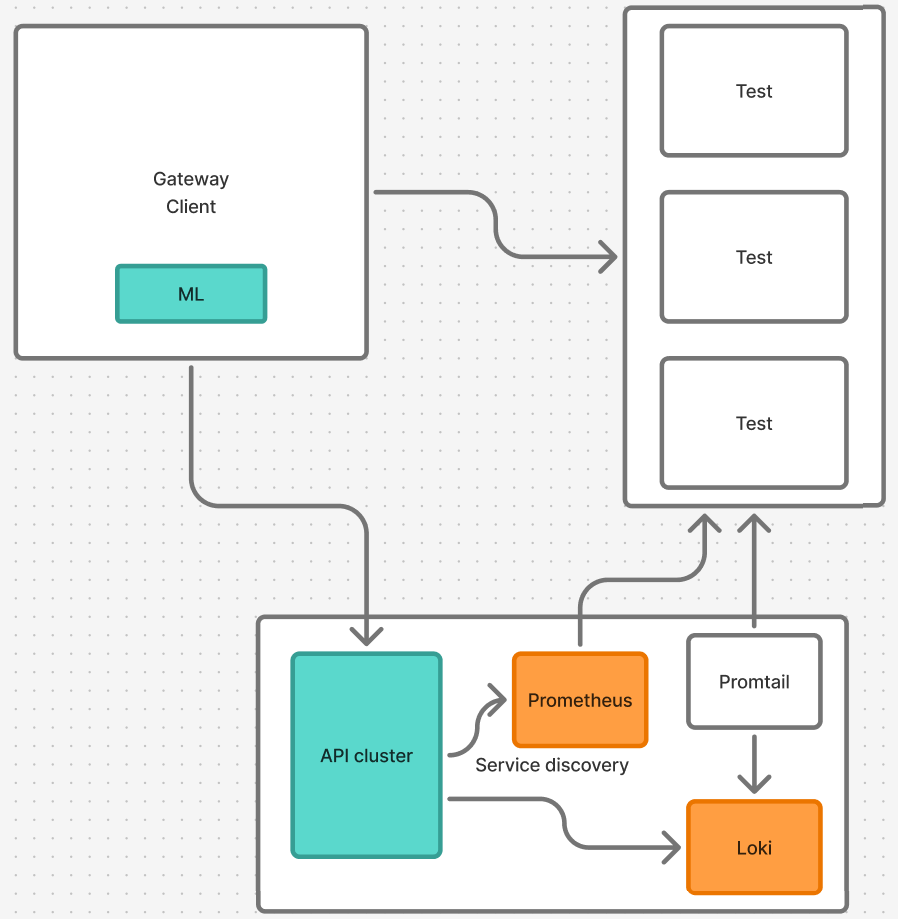
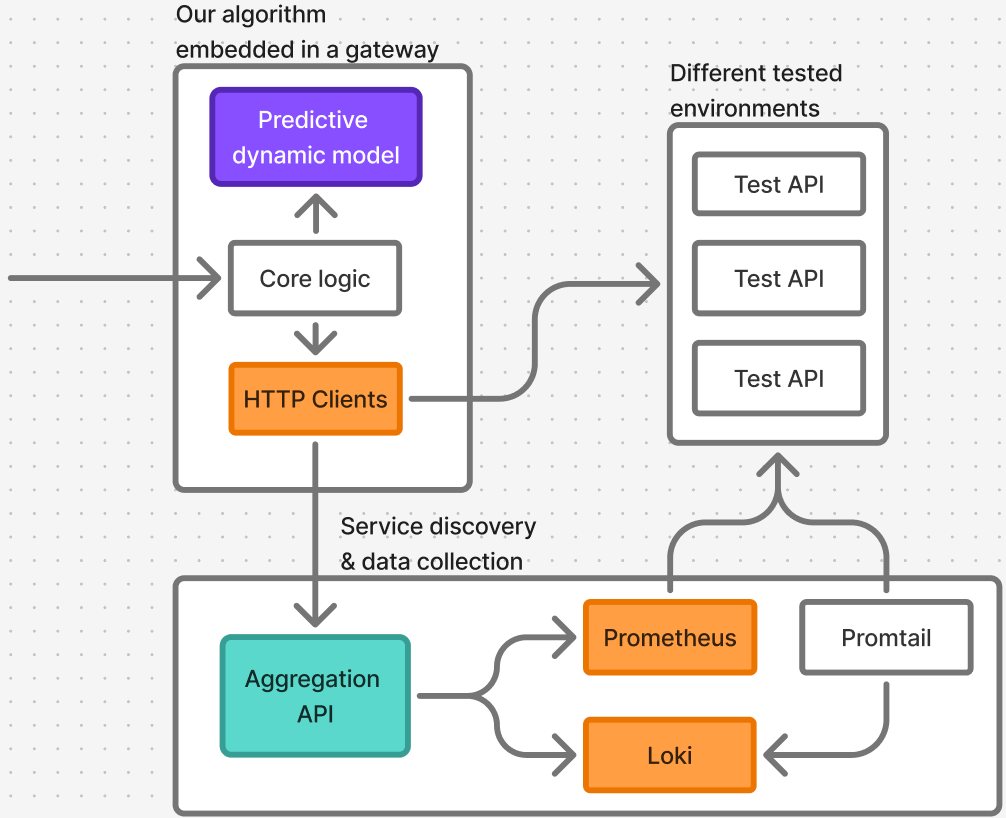
stupid model, needs to be tested on multiple function

Changed region(s): [[0.0, 0.0, 0.9978, 1.0], [0.5301, 0.2139, 0.5612, 0.2751]]

diff --git a/kubernetes/load-balancer/code/deleteThisFile.py b/kubernetes/load-balancer/code/deleteThisFile.py
@@ -1,3 +1,11 @@
+import numpy as np
+from matplotlib import pyplot as plt
+from sklearn.ensemble import RandomForestRegressor, VotingRegressor
+from sklearn.metrics import mean_absolute_error, mean_squared_error, r2_score, accuracy_score
+from sklearn.model_selection import train_test_split, cross_val_score
+import xgboost as xgb
+from sklearn.multioutput import MultiOutputRegressor
+
 from cluster_data_client import ClusterApiClient
 import pandas as pd
 
@@ -30,13 +38,178 @@ input_data = feature_engineer(pd.DataFrame([flatten_dict(e) for e in cluster_dat
 
 # model training
 cols = input_data.columns
-X_cols = [c for c in cols if "input." in c or ".start" in c or c in ["pod", "function", "exec_duration_ns"] ]
+X_cols = [c for c in cols if "input." in c or ".start" in c or c in ["pod", "function"] ]
+Y_cols = [c for c in cols if ".end" in c or c in ["exec_duration_ns"]]
 
-Y_cols = [c for c in cols if ".end" in c]
+X = input_data[X_cols]
+y = input_data[Y_cols]
 
-print("Finished")
+X_encoded = pd.get_dummies(X, columns=['pod']) #TODO add 'function' whenever there will be multiple functions
 
-# model testing
+# Split
+X_train, X_test, y_train, y_test = train_test_split(
+    X_encoded, y, test_size=0.2, random_state=42
+)
 
-# plotting results
+model = MultiOutputRegressor(
+    xgb.XGBRegressor(
+        n_estimators=100,
+        learning_rate=0.1,
+        max_depth=5,
+        random_state=42,
+        n_jobs=-1
+    )
+)
 
+# Entraînement
+print("\n🔄 Training model...")
+model.fit(X_train, y_train)
+
+# Prédictions
+y_pred = model.predict(X_test)
+
+# ===== ÉVALUATION GLOBALE =====
+print("\n" + "="*50)
+print("OVERALL PERFORMANCE")
+print("="*50)
+
+mae_global = mean_absolute_error(y_test, y_pred)
+rmse_global = np.sqrt(mean_squared_error(y_test, y_pred))
+r2_global = r2_score(y_test, y_pred)
+
+print(f"Global MAE:  {mae_global:.4f}")
+print(f"Global RMSE: {rmse_global:.4f}")
+print(f"Global R²:   {r2_global:.4f}")
+
+# ===== ÉVALUATION PAR MÉTRIQUE =====
+print("\n" + "=" * 50)
+print("PER-METRIC PERFORMANCE")
+print("=" * 50)
+
+results = []
+for i, col in enumerate(y.columns):
+    y_true_col = y_test.iloc[:, i]
+    y_pred_col = y_pred[:, i]
+
+    mae = mean_absolute_error(y_true_col, y_pred_col)
+    rmse = np.sqrt(mean_squared_error(y_true_col, y_pred_col))
+    r2 = r2_score(y_true_col, y_pred_col)
+
+    # Calculer l'erreur relative moyenne
+    mape = np.mean(np.abs((y_true_col - y_pred_col) / (y_true_col + 1e-10))) * 100
+
+    results.append({
+        'Metric': col,
+        'MAE': mae,
+        'RMSE': rmse,
+        'R²': r2,
+        'MAPE (%)': mape
+    })
+
+    print(f"\n📊 {col}")
+    print(f"   MAE:  {mae:.4f}")
+    print(f"   RMSE: {rmse:.4f}")
+    print(f"   R²:   {r2:.4f}")
+    print(f"   MAPE: {mape:.2f}%")
+
+# Créer un DataFrame des résultats
+results_df = pd.DataFrame(results)
+print("\n" + "=" * 50)
+print("SUMMARY TABLE")
+print("=" * 50)
+print(results_df.to_string(index=False))
+
+# ===== ANALYSE DES ERREURS =====
+print("\n" + "=" * 50)
+print("ERROR ANALYSIS")
+print("=" * 50)
+
+for i, col in enumerate(y.columns):
+    y_true_col = y_test.iloc[:, i].values
+    y_pred_col = y_pred[:, i]
+
+    errors = y_true_col - y_pred_col
+
+    print(f"\n{col}:")
+    print(f"  Mean error: {np.mean(errors):.4f}")
+    print(f"  Std error:  {np.std(errors):.4f}")
+    print(f"  Max overestimation:  {np.min(errors):.4f}")
+    print(f"  Max underestimation: {np.max(errors):.4f}")
+
+# ===== VISUALISATION =====
+print("\n📈 Generating visualizations...")
+
+n_metrics = len(y.columns)
+fig, axes = plt.subplots(1, n_metrics, figsize=(6 * n_metrics, 5))
+
+if n_metrics == 1:
+    axes = [axes]
+
+for i, col in enumerate(y.columns):
+    y_true_col = y_test.iloc[:, i].values
+    y_pred_col = y_pred[:, i]
+
+    # Scatter plot: Prédictions vs Réel
+    axes[i].scatter(y_true_col, y_pred_col, alpha=0.5, s=20)
+
+    # Ligne parfaite
+    min_val = min(y_true_col.min(), y_pred_col.min())
+    max_val = max(y_true_col.max(), y_pred_col.max())
+    axes[i].plot([min_val, max_val], [min_val, max_val], 'r--', lw=2, label='Perfect prediction')
+
+    axes[i].set_xlabel('Actual', fontsize=12)
+    axes[i].set_ylabel('Predicted', fontsize=12)
+    axes[i].set_title(f'{col}\nR² = {r2_score(y_true_col, y_pred_col):.3f}', fontsize=14)
+    axes[i].legend()
+    axes[i].grid(True, alpha=0.3)
+
+plt.tight_layout()
+plt.savefig('prediction_results.png', dpi=300, bbox_inches='tight')
+print("✅ Saved visualization to 'prediction_results.png'")
+plt.show()
+
+# ===== FEATURE IMPORTANCE =====
+print("\n" + "=" * 50)
+print("FEATURE IMPORTANCE (Top 10)")
+print("=" * 50)
+
+# Moyenne de l'importance sur tous les estimateurs
+feature_importance = np.zeros(X_train.shape[1])
+for estimator in model.estimators_:
+    feature_importance += estimator.feature_importances_
+feature_importance /= len(model.estimators_)
+
+importance_df = pd.DataFrame({
+    'Feature': X_encoded.columns,
+    'Importance': feature_importance
+}).sort_values('Importance', ascending=False)
+
+print(importance_df.head(10).to_string(index=False))
+
+# Visualisation de l'importance
+plt.figure(figsize=(10, 6))
+top_features = importance_df.head(15)
+plt.barh(range(len(top_features)), top_features['Importance'])
+plt.yticks(range(len(top_features)), top_features['Feature'])
+plt.xlabel('Importance')
+plt.title('Top 15 Most Important Features')
+plt.gca().invert_yaxis()
+plt.tight_layout()
+plt.savefig('feature_importance.png', dpi=300, bbox_inches='tight')
+print("✅ Saved feature importance to 'feature_importance.png'")
+plt.show()
+
+# ===== EXEMPLES DE PRÉDICTIONS =====
+print("\n" + "=" * 50)
+print("SAMPLE PREDICTIONS (First 5 test samples)")
+print("=" * 50)
+
+sample_df = pd.DataFrame()
+for i, col in enumerate(y.columns):
+    sample_df[f'{col}_actual'] = y_test.iloc[:5, i].values
+    sample_df[f'{col}_predicted'] = y_pred[:5, i]
+    sample_df[f'{col}_error'] = y_test.iloc[:5, i].values - y_pred[:5, i]
+
+print(sample_df.to_string(index=False))
+
+print("\n✅ Model evaluation complete!")

diff --git a/README.md b/README.md
@@ -51,7 +51,7 @@ envoyer des appels à l'api de test :
 ```shell
 curl --request POST --url http://localhost:8000/ml --header 'content-type: application/json'   --data '{"input":15}'
 ```
-
+    
 complete commands sequence
 ````shell
 kubectl apply -f ./kubernetes/target_apis/ && kubectl apply -f ./kubernetes/service_registry/ && kubectl get pods
